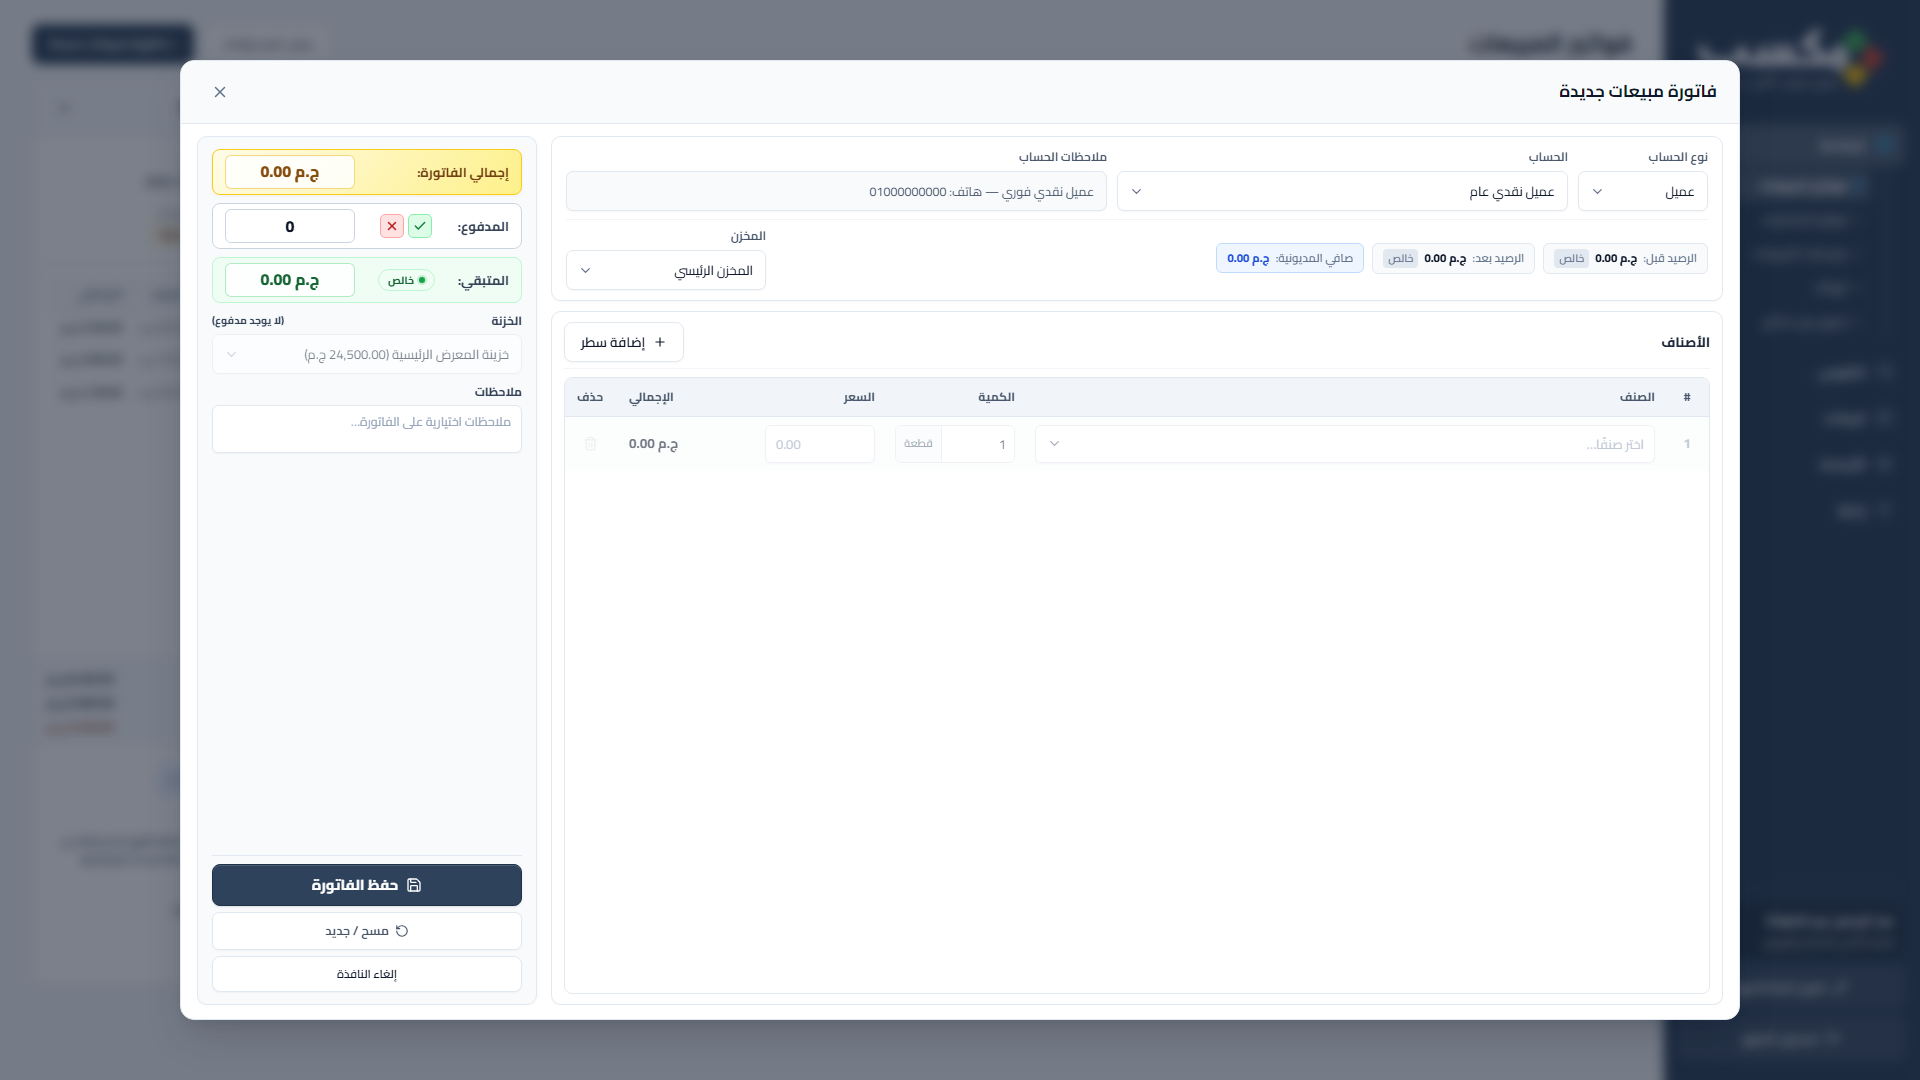
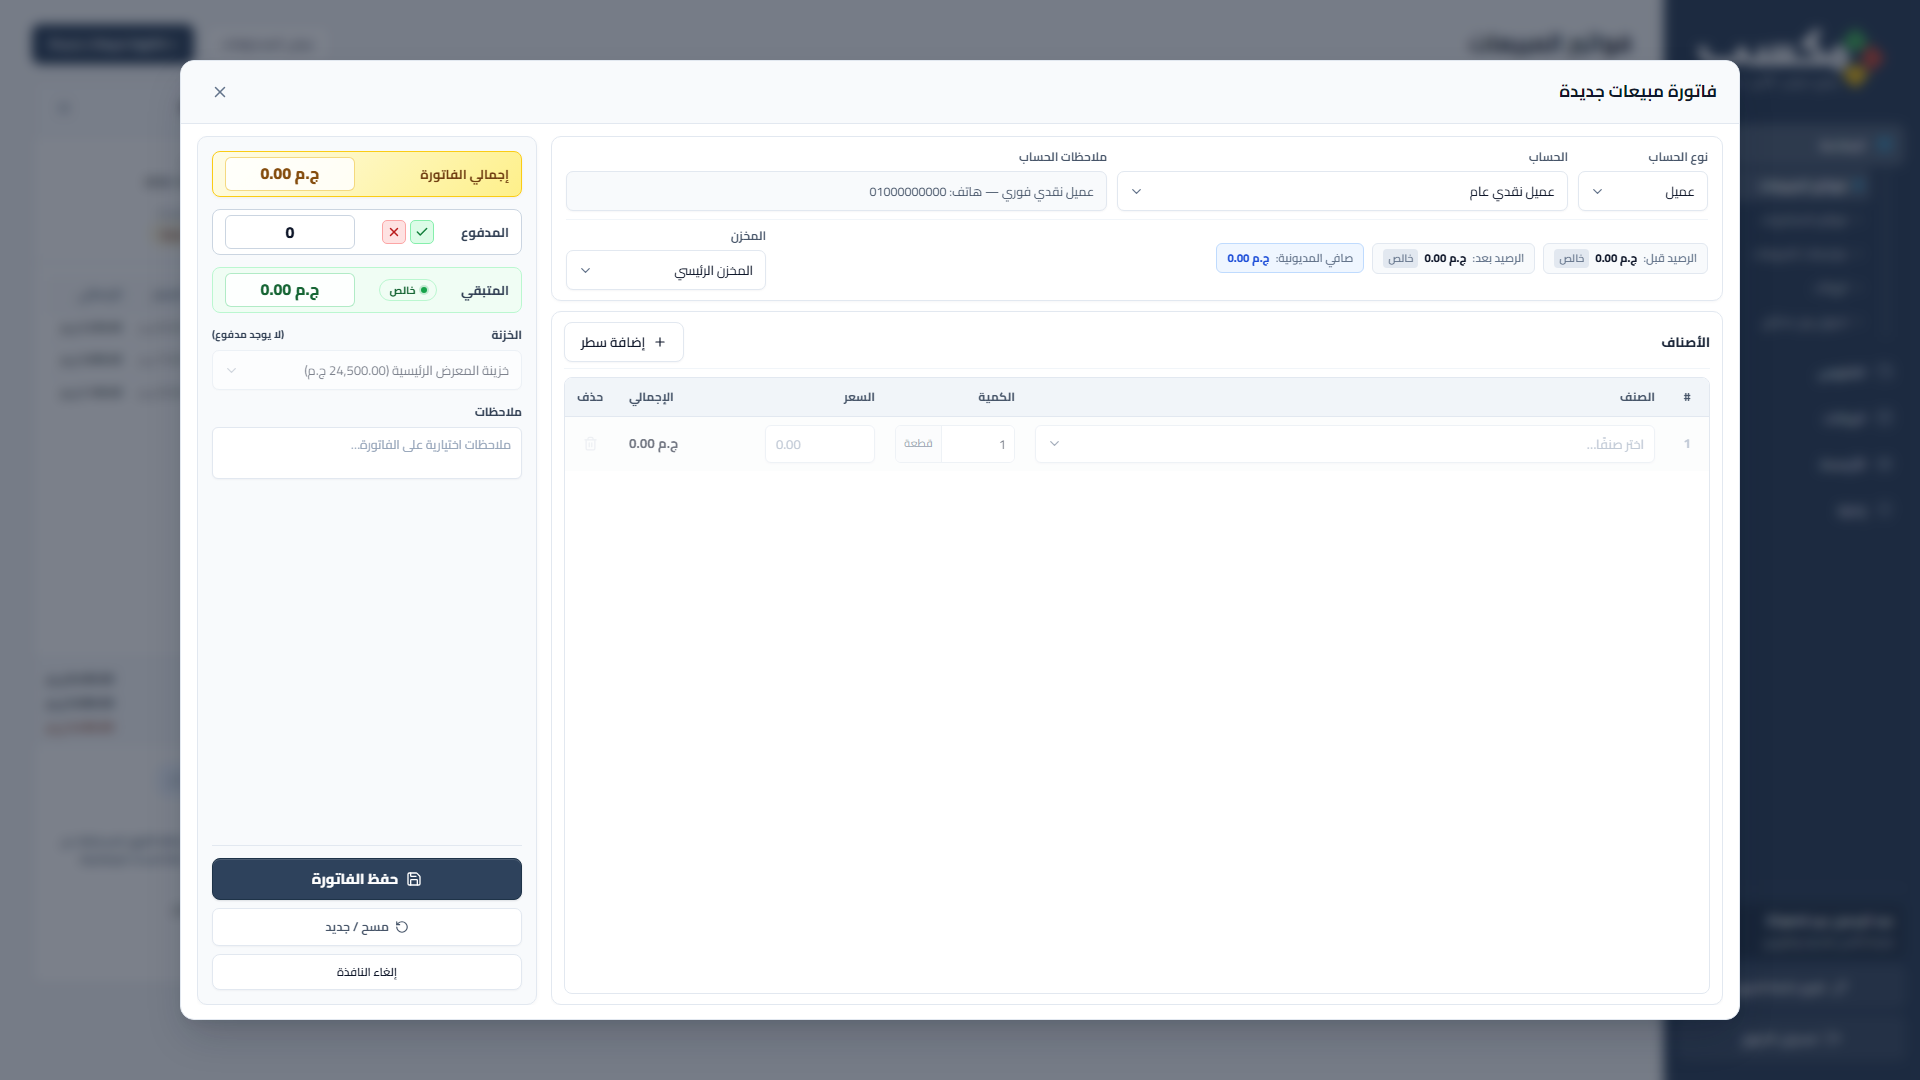
style(invoices): remove colons from summary labels and widen vertical spacing on left section

Changed region(s): [[0.0938, 0.1528, 0.2812, 0.4278], [0.0938, 0.7944, 0.2812, 0.9167], [0.125, 0.1222, 0.1875, 0.1833]]

diff --git a/src/components/InvoiceForm.tsx b/src/components/InvoiceForm.tsx
@@ -565,7 +565,7 @@ export default function InvoiceForm({
         <div className="invoice-part-left">
           {/* 1. إجمالي الفاتورة والخانة على نفس السطر */}
           <div className="left-row-strip left-total-strip">
-            <span className="strip-label">إجمالي {isReturn ? 'المرتجع' : isWaste ? 'الهالك' : 'الفاتورة'}:</span>
+            <span className="strip-label">إجمالي {isReturn ? 'المرتجع' : isWaste ? 'الهالك' : 'الفاتورة'}</span>
             <div className="strip-value-box">
               <strong dir="ltr" className="strip-value strip-value-total num">{money(total)}</strong>
             </div>
@@ -574,7 +574,7 @@ export default function InvoiceForm({
           {/* 2. المدفوع والخانة على نفس السطر */}
           {!isWaste && (
             <div className="left-row-strip left-paid-strip">
-              <span className="strip-label">{isReturn ? 'المسترد:' : 'المدفوع:'}</span>
+              <span className="strip-label">{isReturn ? 'المسترد' : 'المدفوع'}</span>
               <div className="strip-center-slot">
                 <div className="paid-quick-actions">
                   <button
@@ -618,7 +618,7 @@ export default function InvoiceForm({
           {/* 3. المتبقي والخانة على نفس السطر */}
           {!isWaste && (
             <div className={`left-row-strip left-remaining-strip ${remaining === 0 ? 'is-zero' : 'is-due'}`}>
-              <span className="strip-label">{isReturn ? 'حالة الاسترداد:' : 'المتبقي:'}</span>
+              <span className="strip-label">{isReturn ? 'حالة الاسترداد' : 'المتبقي'}</span>
               <div className="strip-center-slot">
                 <span className={`status-badge ${remaining === 0 ? 'paid' : 'unpaid'}`} style={{ fontSize: '10.5px' }}>
                   {isReturn

diff --git a/src/styles/pages/invoice-form.css b/src/styles/pages/invoice-form.css
@@ -1053,11 +1053,11 @@
 .invoice-part-left {
   display: flex;
   flex-direction: column;
-  gap: 8px;
+  gap: 12px;
   background: #f8fafc;
   border: 1px solid var(--erp-border, #cbd5e1);
   border-radius: 10px;
-  padding: 12px 14px;
+  padding: 14px;
   box-shadow: 0 1px 4px rgba(15, 23, 42, 0.04);
   height: 100%;
   min-height: 0;
@@ -1260,7 +1260,7 @@
 .left-field-box label {
   display: flex;
   flex-direction: column;
-  gap: 4px;
+  gap: 6px;
   font-size: 12px;
   font-weight: 700;
   color: #334155;
@@ -1268,9 +1268,9 @@
 
 .left-notes-textarea {
   resize: none;
-  min-height: 48px;
-  height: 48px;
-  padding: 6px 10px;
+  min-height: 52px;
+  height: 52px;
+  padding: 7px 10px;
   border: 1px solid var(--erp-border, #cbd5e1);
   border-radius: 6px;
   font-family: inherit;
@@ -1288,9 +1288,9 @@
 .left-actions-group {
   display: flex;
   flex-direction: column;
-  gap: 6px;
+  gap: 8px;
   margin-top: auto;
-  padding-top: 8px;
+  padding-top: 12px;
   border-top: 1px solid #e2e8f0;
 }
 
